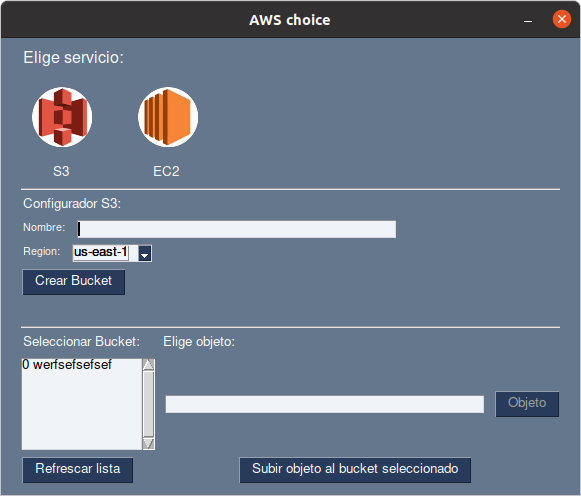
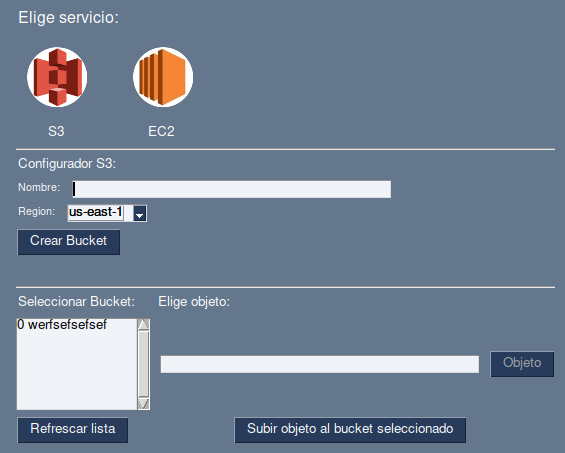
Readme images fixed

Changed region(s): [[0.0, 0.0, 1.0, 1.0]]

diff --git a/README.md b/README.md
@@ -3,7 +3,11 @@
 
 _Programa que permite gestionar y configurar distintos Servicios de AWS._
 
-![Login_Window](https://github.com/Alexvidalcor/AWSmaker/blob/master/input/AWSMaker_1.gif?raw=true), ![S3_Window](https://github.com/Alexvidalcor/AWSmaker/blob/master/input/AWSMaker_2.png?raw=true)
+ 
+Ventana de login           |  Ventana de S3
+:-------------------------:|:-------------------------:
+![Login_Window](https://github.com/Alexvidalcor/AWSmaker/blob/master/input/AWSMaker_1.gif?raw=true)  |  ![S3_Window](https://github.com/Alexvidalcor/AWSmaker/blob/master/input/AWSMaker_2.png?raw=true)
+
 
 ## Comenzando 🚀
 
